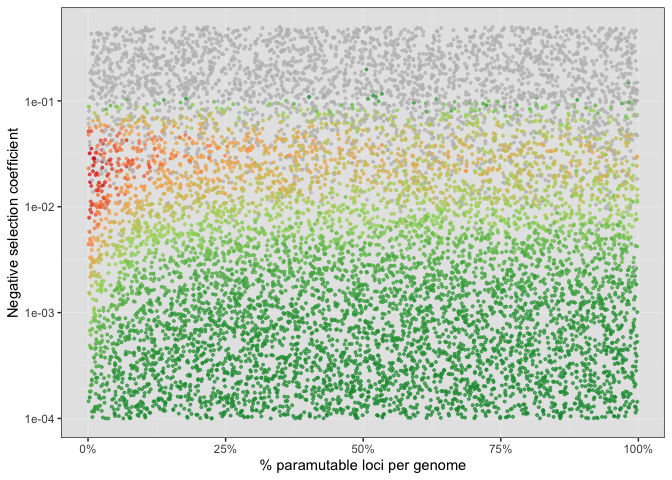
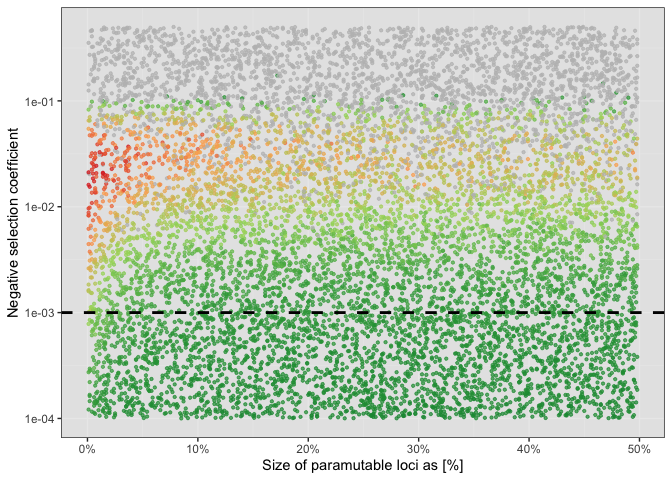
Minor fixes

diff --git a/Simulation/Extra_files_py.py/simstorm_para_vs_logclusters.py b/Simulation/Extra_files_py.py/simstorm_para_vs_logclusters.py
@@ -1,10 +1,12 @@
 import argparse
 import random
 import time
+import math
 
 def current_milli_time():
     return round(time.time() * 1000)
 
+#--max-ins 10000
 def get_basis(invade):
     return " {0} -no-x-cluins --N 1000 --gen 5000 --genome mb:10,10,10,10,10 --x 0.01 --rr 4,4,4,4,4 --rep 1 --u 0.2 --basepop 100 --steps 5000 --silent".format(invade)
 
@@ -12,16 +14,16 @@ def get_filter():
     return """|grep -v "^Invade"|grep -v "^#" """
 
 def get_rand_para():
-    r=random.randint(1,999)
+    r=random.randint(1,500)
     a=""
     for x in range(0,r):
         a+=f"{x},"
     a=a[:-1]
     a = a + " "
-    return f"1000:{a}"
+    return f"500:{a}"
 
 def get_rand_clusters():
-    r=random.randint(1,100)
+    r=math.floor(10**random.uniform(3.69899,5.69899))
     return f"{r},{r},{r},{r},{r}"
 
 
@@ -36,7 +38,7 @@ def run_cluster_negsel(invade,count,output):
         u=get_rand_para()
         tr=current_milli_time()+i
         #command=basis+" --x {0} --paramutation {1} --replicate-offset {2} --file-tally tally{2}.txt --file-sfs sfs{2}.txt --file-mhp mhp{2}.txt --seed {3} ".format(x,u,i,tr)
-        command=basis+" --cluster kb:{0} --paramutation {1} --replicate-offset {2} --seed {3} ".format(x,u,i,tr)
+        command=basis+" --cluster bp:{0} --paramutation {1} --replicate-offset {2} --seed {3} ".format(x,u,i,tr)
         #ri=random.random()
         arr = u.split(',')
         lastWord_para = arr[- 1]
@@ -59,8 +61,7 @@ Prerequisites
 Authors
 -------
     Robert Kofler
-    Filip Wierzbicki
-    Almorò Scarpa
+    Filip Wierzbicki 
 """)
 
 

diff --git a/Simulation/Extra_files_py.py/simstorm_para_vs_selection.py b/Simulation/Extra_files_py.py/simstorm_para_vs_selection.py
@@ -5,6 +5,7 @@ import time
 def current_milli_time():
     return round(time.time() * 1000)
 
+#--max-ins 10000
 def get_basis(invade):
     return " {0} -no-x-cluins --N 1000 --gen 5000 --genome mb:10,10,10,10,10 --cluster kb:100,100,100,100,100 --rr 4,4,4,4,4 --rep 1 --u 0.2 --basepop 100 --steps 5000 --silent".format(invade)
 
@@ -12,20 +13,13 @@ def get_filter():
     return """|grep -v "^Invade"|grep -v "^#" """
 
 def get_rand_para():
-    r=random.randint(1,999)
+    r=random.randint(1,499)
     a=""
     for x in range(0,r):
         a+=f"{x},"
     a=a[:-1]
     a = a + " "
-    return f"1000:{a}"
-
-def get_rand_x():
-    # from 0.0001 to 0.5 uniformly log distributed
-    return 10**random.uniform(-0.301029995664,-4)
-
-    # from 0.005 to 0.5 uniformly log distributed
-    #return random.uniform(0.5,0.005)
+    return f"500:{a}"
 
 def get_rand_x():
     # from 0.0001 to 0.5 uniformly log distributed
@@ -67,8 +61,7 @@ Prerequisites
 Authors
 -------
     Robert Kofler
-    Filip Wierzbicki
-    Almorò Scarpa
+    Filip Wierzbicki 
 """)
 
 

diff --git a/Simulation/2022_11_07_Simulation_7_Storm.md b/Simulation/2022_11_07_Simulation_7_Storm.md
@@ -34,7 +34,9 @@ Setting the environment
 
 ``` r
 library(tidyverse)
+library(RColorBrewer)
 library(ggplot2)
+library(patchwork)
 theme_set(theme_bw())
 ```
 
@@ -42,9 +44,8 @@ Visualization:
 
 ``` r
 setwd("/Users/ascarpa/Paramutations_TEs/Simulation/Raw")
-
-df<-read.table("output_u0.2_clu100_final", sep = "\t", fill = TRUE, row.names=NULL)
-df_2<-read.table("output_u0.1_x0.01_clu0.1_250", sep = "\t", fill = TRUE, row.names=NULL)
+df<-read.table("2022_11_07_Simulation_7_sel_para_u02_clu100", sep = "\t", fill = TRUE, row.names=NULL)
+df_2<-read.table("2022_11_7_Simulation_7_clu_para_u02_x001", sep = "\t", fill = TRUE, row.names=NULL)
 
 
 naming <- c("rep", "gen", "popstat", "fmale", "spacer_1", "fwte", "avw", "min_w", "avtes", "avpopfreq", "fixed",
@@ -54,6 +55,7 @@ naming <- c("rep", "gen", "popstat", "fmale", "spacer_1", "fwte", "avw", "min_w"
 naming_2 <- c("rep", "gen", "popstat", "fmale", "spacer_1", "fwte", "avw", "min_w", "avtes", "avpopfreq", "fixed",
               "spacer_2", "phase", "fwpirna", "spacer_3", "fwcli", "avcli", "fixcli", "spacer_4", "fwpar_yespi",
               "fwpar_nopi", "avpar","fixpar","spacer_5","piori","orifreq","spacer 6", "sampleid_clu", "sampleid_para","extra")
+
 
 names(df) <- naming
 names(df_2) <- naming_2
@@ -66,6 +68,7 @@ df$min_w <- as.numeric(df$min_w)
 df_2$sampleid_clu <- as.numeric(df_2$sampleid_clu)
 df_2$sampleid_para <- as.numeric(df_2$sampleid_para)
 df_2$min_w <- as.numeric(df_2$min_w)
+
 
 #Keep only last generation, will be less then 5000 if fail
 df<-subset(df, gen > 0)
@@ -81,23 +84,28 @@ color.gradient_2 <- function(x, colors=c("#D7191C","#FDAE61","#A6D96A","#1A9641"
 }
 ```
 
+Visualization:
+
 ``` r
 df$col<-color.gradient(df$min_w)
 df[df$popstat=="fail-0",]$col<-"grey"
 df$col<-as.factor(df$col)
-
-df_2$col<-color.gradient_2(df_2$min_w)
-df_2[df_2$popstat=="fail-w",]$col<-"white"
-df_2[df_2$popstat=="fail-0",]$col<-"grey"
-df_2$col<-as.factor(df_2$col)
 ```
 
+Visualization:
+
 ``` r
+df_2$col<-color.gradient_2(df_2$min_w)
+df_2[df_2$popstat=="fail-0",]$col<-"grey"
+df_2$col<-as.factor(df_2$col)
+
+
 g_para_selection<-ggplot(df,aes(x=sampleid_para/1000,y=sampleid_x,color=col))+scale_color_manual(values=levels(df$col))+
-  geom_point(alpha=0.7,size=0.7)+scale_y_log10()+
+  geom_point(alpha=0.7,size=0.8)+scale_y_log10()+
   scale_x_continuous(labels = scales::percent)+
   ylab("Negative selection coefficient")+
-  xlab("% paramutable loci per genome")+
+  xlab("Size of paramutable loci as [%]")+
+  geom_hline(aes(yintercept=0.001), linetype = "dashed", size=1)+
   theme(legend.position = "none",panel.background = element_rect(fill="grey90"))
 
 plot(g_para_selection)
@@ -106,18 +114,24 @@ plot(g_para_selection)
 ![](2022_11_07_Simulation_7_Storm_files/figure-gfm/unnamed-chunk-4-1.png)<!-- -->
 
 ``` r
-g_para_cluster<-ggplot(df_2,aes(x=sampleid_para/1000,y=sampleid_clu/10000,color=col))+scale_color_manual(values=levels(df_2$col))+
-  geom_point(alpha=0.7,size=0.7)+
-  scale_y_continuous(labels = scales::percent)+
+g_para_cluster<-ggplot(df_2,aes(x=sampleid_para/1000,y=sampleid_clu/100000,color=col))+scale_color_manual(values=levels(df_2$col))+
+  geom_point(alpha=0.7,size=0.8)+scale_y_log10()+
+  geom_curve(aes(x = 0, y = 1.6, xend = 0.5, yend = 0.30), data = df_2, angle = 90, curvature = 0.2, color="#4B5320", alpha=0.5)+
   scale_x_continuous(labels = scales::percent)+
-  ylab("Cluster size as % of the genome")+
-  xlab("% paramutable loci per genome")+
+  ylab("Size of piRNA clusters as [%]")+
+  xlab("Size of paramutable loci as [%]")+
   theme(legend.position = "none",panel.background = element_rect(fill="grey90"))
 
 plot(g_para_cluster)
 ```
 
 ![](2022_11_07_Simulation_7_Storm_files/figure-gfm/unnamed-chunk-4-2.png)<!-- -->
+
+``` r
+g_para_selection +g_para_cluster
+```
+
+![](2022_11_07_Simulation_7_Storm_files/figure-gfm/unnamed-chunk-4-3.png)<!-- -->
 
 ## Conclusions
 
